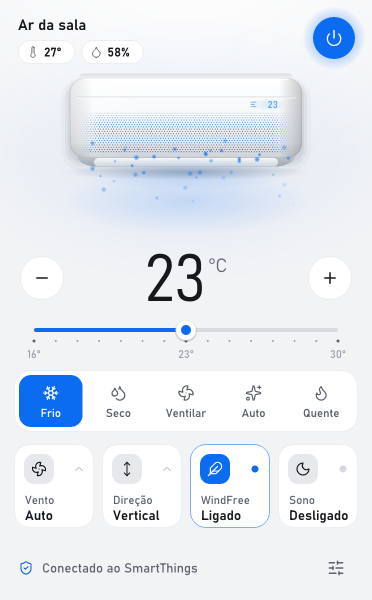
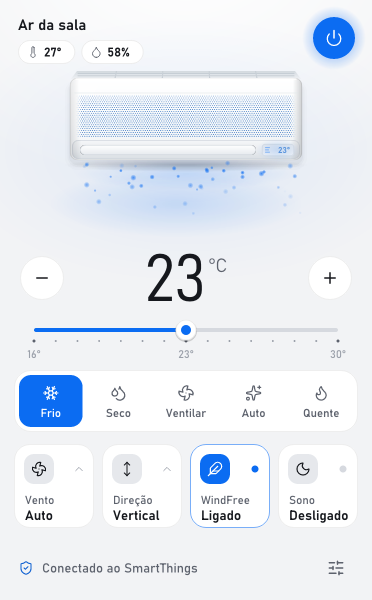
Draw the unit after the WindFree Connect front
Model the wall unit on the real product: the intake grille on the top
face, a smooth upper band, fine perforations across the front, and a
lower lip with the blade over a dark outlet with its vanes and the
display window with the temperature on the right.

The blade now tilts down from the outlet instead of floating below it,
the WindFree air starts under the unit, and the light theme shadow no
longer rings the unit.

Changed region(s): [[0.207, 0.12, 0.828, 0.33]]

diff --git a/src/scene.rs b/src/scene.rs
@@ -9,15 +9,20 @@ pub const HEIGHT: f32 = 150.0;
 /// The scene's top in the drawing, which starts above the unit.
 const TOP: f32 = 12.0;
 
-// The unit: a 2.9 to 1 front, like the real wall units.
-const BODY: (f32, f32, f32, f32) = (44.0, 16.0, 232.0, 80.0);
-const SEAM_Y: f32 = 35.0;
-/// The micro-perforated field on the lower front.
-const FIELD: (f32, f32, f32, f32) = (54.0, 50.0, 212.0, 40.0);
-const HOLE_PITCH: f32 = 2.6;
-const BLADE_TOP: f32 = 96.0;
-const SWAY_ORIGIN: (f32, f32) = (160.0, 103.0);
-const AIR_TOP: f32 = 104.0;
+// The unit follows the WindFree Connect front: a 2.8 to 1 box with the intake grille on
+// top, a smooth upper band, the perforated field and a lower lip with the blade and display.
+const BODY: (f32, f32, f32, f32) = (44.0, 16.0, 232.0, 82.0);
+/// Where the smooth upper band ends and where the lower lip starts.
+const BAND_Y: f32 = 31.0;
+const LIP_Y: f32 = 78.0;
+/// The micro-perforated field that WindFree breathes through.
+const FIELD: (f32, f32, f32, f32) = (50.0, 33.0, 220.0, 43.0);
+const HOLE_PITCH: f32 = 2.2;
+/// The blade covers the outlet on the left of the lip; the display window sits on the right.
+const BLADE: (f32, f32, f32, f32) = (54.0, 83.0, 176.0, 10.0);
+const DISPLAY: (f32, f32, f32, f32) = (236.0, 82.0, 32.0, 12.0);
+const SWAY_ORIGIN: (f32, f32) = (142.0, 99.0);
+const AIR_TOP: f32 = 100.0;
 const AIR_BOTTOM: f32 = 176.0;
 
 /// What the scene shows; the panel eases the numbers between states.
@@ -104,8 +109,8 @@ impl Scene {
             .map(|index| {
                 let position = index as f32 / (count - 1) as f32;
                 let fade = 1.0 - (position - 0.5).abs() * 0.9;
-                let x = 84.0 + position * 152.0;
-                let spread = (x - 160.0) * 0.5;
+                let x = 64.0 + position * 156.0;
+                let spread = (x - 142.0) * 0.5;
                 let bend = random.range(-6.0, 6.0);
                 let mut builder = PathBuilder::new();
                 builder.move_to(x, AIR_TOP);
@@ -124,13 +129,13 @@ impl Scene {
             .collect();
         let motes = (0..48)
             .map(|_| {
-                let x = random.range(62.0, 258.0);
+                let x = random.range(56.0, 264.0);
                 Mote {
                     x,
-                    y: random.range(BODY.1 + 60.0, BODY.1 + 74.0),
+                    y: random.range(BODY.1 + BODY.3 + 1.0, BODY.1 + BODY.3 + 7.0),
                     radius: random.range(0.8, 1.8),
                     dx: (x - 160.0) * 0.12 + random.range(-5.0, 5.0),
-                    dy: random.range(26.0, 66.0),
+                    dy: random.range(20.0, 58.0),
                     seconds: random.range(3.6, 7.2),
                     phase: random.next(),
                 }
@@ -150,90 +155,106 @@ impl Scene {
     pub fn draw_unit(&mut self, canvas: &mut Canvas, look: &Look) {
         let on = look.power;
         let (x, y, width, height) = BODY;
+        let bottom = y + height;
         let glow = look.tint.alpha(if look.light { 0.16 } else { 0.22 } * on);
-        canvas.fill(&ellipse(160.0, 140.0, 128.0, 34.0), &paint(radial(160.0, 140.0, 128.0, 34.0, &[(0.0, glow), (1.0, glow.alpha(0.0))])));
+        canvas.fill(&ellipse(150.0, 142.0, 130.0, 34.0), &paint(radial(150.0, 142.0, 130.0, 34.0, &[(0.0, glow), (1.0, glow.alpha(0.0))])));
 
         // The unit hangs on a wall: a soft shadow behind it and a contact shadow under it.
-        let wall = if look.light { 0.05 } else { 0.12 };
-        for (grow, alpha) in [(9.0, 0.5), (5.0, 0.8), (2.0, 1.0)] {
+        let wall = if look.light { 0.03 } else { 0.13 };
+        let spread: [(f32, f32); 3] = if look.light { [(5.0, 0.4), (2.5, 0.7), (1.0, 1.0)] } else { [(10.0, 0.45), (5.0, 0.75), (2.0, 1.0)] };
+        for (grow, alpha) in spread {
             let shadow = Rgba(0, 0, 0, (255.0 * wall * alpha) as u8);
-            canvas.fill(&rounded(x - grow, y + 3.0 - grow * 0.4, width + grow * 2.0, height + grow * 1.6, 14.0 + grow), &solid(shadow));
+            canvas.fill(&rounded(x - grow, y + 4.0 - grow * 0.4, width + grow * 2.0, height + grow * 1.6, 8.0 + grow), &solid(shadow));
         }
-        let contact = Rgba(0, 0, 0, if look.light { 60 } else { 150 });
-        canvas.fill(&ellipse(160.0, 110.0, 124.0, 8.0), &paint(radial(160.0, 110.0, 124.0, 8.0, &[(0.0, contact), (1.0, contact.alpha(0.0))])));
+        let contact = Rgba(0, 0, 0, if look.light { 55 } else { 140 });
+        canvas.fill(&ellipse(160.0, bottom + 5.0, 122.0, 7.0), &paint(radial(160.0, bottom + 5.0, 122.0, 7.0, &[(0.0, contact), (1.0, contact.alpha(0.0))])));
 
         // Off dims the body a little, like a unit with the room lights low.
         let shade = |color: u32| Rgba::hex(color).mix(Rgba(24, 26, 30, 255), 0.14 * (1.0 - on));
-
-        // The top face, seen from slightly below, peeks over the front.
-        canvas.fill(&rounded(x + 9.0, y - 4.5, width - 18.0, 9.0, 4.5), &paint(linear((0.0, y - 4.5), (0.0, y + 2.0), &[(0.0, shade(0xd9dee4)), (1.0, shade(0xf7f9fb))])));
-
-        // Underside first, so the front panel sits over its edge.
-        let mut under = PathBuilder::new();
-        under.move_to(x + 6.0, 90.0);
-        under.line_to(x + width - 6.0, 90.0);
-        under.cubic_to(x + width - 6.0, 98.0, x + width - 12.0, 103.0, x + width - 24.0, 104.5);
-        under.line_to(x + 24.0, 104.5);
-        under.cubic_to(x + 12.0, 103.0, x + 6.0, 98.0, x + 6.0, 90.0);
-        under.close();
-        if let Some(path) = under.finish() {
-            canvas.fill(&path, &paint(linear((0.0, 90.0), (0.0, 104.5), &[(0.0, shade(0xcdd3da)), (1.0, shade(0x9ea7b2))])));
-        }
-        canvas.fill(&rounded(70.0, 97.0, 180.0, 6.5, 3.25), &paint(linear((0.0, 97.0), (0.0, 103.5), &[(0.0, Rgba::hex(0x07090b)), (1.0, Rgba::hex(0x2a3038))])));
-
-        let body = rounded(x, y, width, height, 15.0);
-        canvas.fill(&body, &paint(linear((0.0, y), (0.0, y + height), &[(0.0, shade(0xffffff)), (0.45, shade(0xf6f8fa)), (1.0, shade(0xe3e8ed))])));
-        // Rounded ends, a gloss across the upper front and the curve into the base.
-        let edge = Rgba(20, 26, 34, 0);
-        canvas.fill(&body, &paint(linear((x, 0.0), (x + width, 0.0), &[(0.0, edge.with_alpha(58)), (0.1, edge), (0.9, edge), (1.0, edge.with_alpha(62))])));
-        let gloss = Rgba(255, 255, 255, 0);
-        canvas.fill(&body, &paint(linear((x, y), (x + width * 0.55, y + height), &[(0.0, gloss.with_alpha(150)), (0.45, gloss.with_alpha(40)), (0.6, gloss)])));
-        canvas.fill(&body, &paint(linear((0.0, y + height - 16.0), (0.0, y + height), &[(0.0, edge), (1.0, edge.with_alpha(30))])));
-        canvas.stroke(&rounded(x + 0.4, y + 0.4, width - 0.8, height - 0.8, 14.6), &solid(Rgba(0, 0, 0, 22)), 0.8);
-
-        // Top cover: a bright lip and the seam above the front panel.
         let thin = |width: f32| Stroke { width, line_cap: LineCap::Round, ..Stroke::default() };
-        if let Some(path) = line((x + 14.0, y + 1.4), (x + width - 14.0, y + 1.4)) {
-            canvas.stroke_with(&path, &solid(Rgba(255, 255, 255, 235)), &thin(1.4), Transform::identity());
-        }
-        if let Some(path) = line((x + 6.0, SEAM_Y), (x + width - 6.0, SEAM_Y)) {
-            canvas.stroke_with(&path, &solid(shade(0xd2d8df)), &thin(0.9), Transform::identity());
-        }
-        if let Some(path) = line((x + 6.0, SEAM_Y + 1.0), (x + width - 6.0, SEAM_Y + 1.0)) {
-            canvas.stroke_with(&path, &solid(Rgba(255, 255, 255, 210)), &thin(0.8), Transform::identity());
-        }
 
-        // The micro-perforated front that WindFree breathes through.
-        let tint_holes = look.tint.mix(Rgba::hex(0x1d4f7a), 0.4);
-        let hole_color = Rgba::hex(0x9aa4ae).mix(tint_holes, 0.85 * look.windfree * on);
-        self.draw_holes(canvas, hole_color);
-
-        // Display on the right of the front, as on the real units, with the WindFree mark when it runs.
-        if let Some(text) = &look.display {
-            let glow = Rgba::hex(0xeaf6ff).mix(look.tint, 0.55).alpha(on);
-            canvas.fill(&ellipse(242.0, 42.5, 18.0, 7.0), &paint(radial(242.0, 42.5, 18.0, 7.0, &[(0.0, glow.alpha(0.22)), (1.0, glow.alpha(0.0))])));
-            canvas.text(text, Style::Semibold, 10.0, 252.0, 46.0, glow, Align::Right);
-            let mark = glow.alpha(look.windfree);
-            for (index, length) in [5.0, 3.5, 5.0].into_iter().enumerate() {
-                let row = 40.2 + index as f32 * 2.2;
-                if let Some(path) = line((225.0, row), (225.0 + length, row)) {
-                    canvas.stroke_with(&path, &solid(mark), &thin(0.9), Transform::identity());
-                }
+        // Top face with the intake grille, seen from slightly above.
+        let mut top = PathBuilder::new();
+        top.move_to(x + 7.0, y - 7.0);
+        top.line_to(x + width - 7.0, y - 7.0);
+        top.line_to(x + width - 1.0, y + 1.0);
+        top.line_to(x + 1.0, y + 1.0);
+        top.close();
+        if let Some(path) = top.finish() {
+            canvas.fill(&path, &paint(linear((0.0, y - 7.0), (0.0, y + 1.0), &[(0.0, shade(0xd3d9df)), (1.0, shade(0xeff2f5))])));
+        }
+        for row in [y - 4.6, y - 2.2] {
+            if let Some(path) = line((x + 8.0, row), (x + width - 8.0, row)) {
+                canvas.stroke_with(&path, &solid(shade(0xb9c1ca)), &thin(0.7), Transform::identity());
+            }
+        }
+        for divider in 1..5 {
+            let along = x + width * divider as f32 / 5.0;
+            if let Some(path) = line((along, y - 6.5), (along + (along - 160.0) * 0.02, y + 0.5)) {
+                canvas.stroke_with(&path, &solid(shade(0xc9d0d7)), &thin(1.1), Transform::identity());
             }
         }
 
-        // The blade swings down for normal airflow and stays shut in WindFree.
-        let open = on * (1.0 - look.windfree);
-        let drop = 6.5 * open;
-        if open > 0.01 {
-            // Its underside shows as it tilts.
-            canvas.fill(&rounded(70.0, BLADE_TOP + 2.0 + drop, 180.0, 3.5 * open + 1.0, 2.0), &solid(shade(0xaab2bc).alpha(open)));
+        // The front: nearly flat, with small rounded corners.
+        let body = rounded(x, y, width, height, 7.0);
+        canvas.fill(&body, &paint(linear((0.0, y), (0.0, bottom), &[(0.0, shade(0xffffff)), (0.55, shade(0xf7f9fa)), (1.0, shade(0xeceff2))])));
+        let edge = Rgba(20, 26, 34, 0);
+        canvas.fill(&body, &paint(linear((x, 0.0), (x + width, 0.0), &[(0.0, edge.with_alpha(46)), (0.04, edge), (0.96, edge), (1.0, edge.with_alpha(50))])));
+        let gloss = Rgba(255, 255, 255, 0);
+        canvas.fill(&body, &paint(linear((x, y), (x + width * 0.5, bottom), &[(0.0, gloss.with_alpha(120)), (0.5, gloss.with_alpha(30)), (0.65, gloss)])));
+        canvas.stroke(&rounded(x + 0.4, y + 0.4, width - 0.8, height - 0.8, 6.6), &solid(Rgba(0, 0, 0, 24)), 0.8);
+        if let Some(path) = line((x + 6.0, y + 1.2), (x + width - 6.0, y + 1.2)) {
+            canvas.stroke_with(&path, &solid(Rgba(255, 255, 255, 240)), &thin(1.2), Transform::identity());
         }
-        let blade = Transform::from_translate(160.0, BLADE_TOP)
-            .pre_translate(0.0, drop)
-            .pre_scale(1.0, 1.0 - 0.58 * open)
-            .pre_translate(-160.0, -BLADE_TOP);
-        canvas.fill_at(&rounded(68.0, BLADE_TOP, 184.0, 8.5, 4.25), &paint(linear((0.0, BLADE_TOP), (0.0, BLADE_TOP + 8.5), &[(0.0, shade(0xf4f6f8)), (1.0, shade(0xd0d6dd))])), blade);
+
+        // The perforated field, which takes the mode color while WindFree runs.
+        let tint_holes = look.tint.mix(Rgba::hex(0x1d4f7a), 0.4);
+        let hole_color = Rgba::hex(0xa3acb6).mix(tint_holes, 0.85 * look.windfree * on);
+        self.draw_holes(canvas, hole_color);
+        if let Some(path) = line((x + 5.0, BAND_Y), (x + width - 5.0, BAND_Y)) {
+            canvas.stroke_with(&path, &solid(shade(0xe3e7eb)), &thin(0.6), Transform::identity());
+        }
+
+        // The lower lip curves back toward the wall.
+        let lip = rounded(x + 2.0, LIP_Y, width - 4.0, bottom - LIP_Y - 1.0, 6.0);
+        canvas.fill(&lip, &paint(linear((0.0, LIP_Y), (0.0, bottom), &[(0.0, shade(0xf4f6f8)), (0.5, shade(0xeaedf0)), (1.0, shade(0xd8dde2))])));
+        canvas.stroke(&rounded(x + 2.5, LIP_Y + 0.5, width - 5.0, bottom - LIP_Y - 2.0, 5.5), &solid(shade(0xd0d6dc)), 0.7);
+        canvas.fill(&lip, &paint(linear((x, 0.0), (x + width, 0.0), &[(0.0, edge.with_alpha(40)), (0.05, edge), (0.95, edge), (1.0, edge.with_alpha(44))])));
+
+        // Behind the blade: the dark outlet with the side-to-side vanes.
+        let (bx, by, bw, bh) = BLADE;
+        canvas.fill(&rounded(bx, by, bw, bh, bh / 2.0), &paint(linear((0.0, by), (0.0, by + bh), &[(0.0, Rgba::hex(0x0a0c0f)), (1.0, Rgba::hex(0x2c323a))])));
+        for vane in 1..16 {
+            let along = bx + bw * vane as f32 / 16.0;
+            if let Some(path) = line((along, by + 2.0), (along, by + bh - 2.0)) {
+                canvas.stroke_with(&path, &solid(Rgba::hex(0x3b424b)), &thin(0.9), Transform::identity());
+            }
+        }
+
+        // The blade tilts down from the bottom of the outlet for normal airflow and stays shut in WindFree.
+        let open = on * (1.0 - look.windfree);
+        let hinge = by + bh;
+        let blade = Transform::from_translate(0.0, hinge).pre_concat(Transform::from_row(1.0, 0.0, 0.0, 1.0 - 0.45 * open, 0.0, 0.0)).pre_translate(0.0, -hinge).pre_concat(Transform::from_translate(0.0, (bh + 1.0) * open));
+        canvas.fill_at(&rounded(bx, by, bw, bh, bh / 2.0), &paint(linear((0.0, by), (0.0, by + bh), &[(0.0, shade(0xffffff)), (1.0, shade(0xe6eaee))])), blade);
+        canvas.stroke_with(&rounded(bx + 0.4, by + 0.4, bw - 0.8, bh - 0.8, bh / 2.0 - 0.4), &solid(shade(0xccd3da)), &thin(0.6), blade);
+
+        // The display window on the right of the lip; the digits light up when the display is on.
+        let (dx, dy, dw, dh) = DISPLAY;
+        canvas.fill(&rounded(dx, dy, dw, dh, 3.0), &paint(linear((0.0, dy), (0.0, dy + dh), &[(0.0, shade(0xe4e8ec)), (1.0, shade(0xf0f2f5))])));
+        canvas.stroke(&rounded(dx + 0.3, dy + 0.3, dw - 0.6, dh - 0.6, 2.7), &solid(shade(0xcfd5db)), 0.6);
+        if let Some(text) = &look.display {
+            let glow = Rgba::hex(0xeaf6ff).mix(look.tint, 0.6).alpha(on);
+            canvas.fill(&ellipse(dx + dw / 2.0, dy + dh / 2.0, dw * 0.7, dh), &paint(radial(dx + dw / 2.0, dy + dh / 2.0, dw * 0.7, dh, &[(0.0, glow.alpha(0.28)), (1.0, glow.alpha(0.0))])));
+            canvas.text(&format!("{text}°"), Style::Semibold, 8.5, dx + dw - 4.0, dy + dh - 3.0, glow.mix(Rgba::hex(0x2a5d8a), 0.25), Align::Right);
+            // The WindFree mark beside the digits while it runs.
+            let mark = glow.alpha(look.windfree);
+            for (index, length) in [4.0, 3.0, 4.0].into_iter().enumerate() {
+                let row = dy + 3.6 + index as f32 * 2.3;
+                if let Some(path) = line((dx + 3.5, row), (dx + 3.5 + length, row)) {
+                    canvas.stroke_with(&path, &solid(mark), &thin(0.8), Transform::identity());
+                }
+            }
+        }
     }
 
     fn draw_holes(&mut self, canvas: &mut Canvas, color: Rgba) {
@@ -272,10 +293,10 @@ impl Scene {
         };
 
         let mut sheet = PathBuilder::new();
-        sheet.move_to(84.0, AIR_TOP - 1.0);
-        sheet.line_to(236.0, AIR_TOP - 1.0);
-        sheet.line_to(278.0, AIR_BOTTOM);
-        sheet.line_to(42.0, AIR_BOTTOM);
+        sheet.move_to(62.0, AIR_TOP - 1.0);
+        sheet.line_to(222.0, AIR_TOP - 1.0);
+        sheet.line_to(262.0, AIR_BOTTOM);
+        sheet.line_to(22.0, AIR_BOTTOM);
         sheet.close();
         if let Some(sheet) = sheet.finish() {
             canvas.fill_at(&sheet, &fall(0.12), sway);
@@ -311,7 +332,7 @@ impl Scene {
     }
 }
 
-/// The perforation grid, fading at the sides and toward the seam, rendered once per scale and color.
+/// The perforation grid: fine, even dots across the front, rendered once per scale and color.
 fn render_holes(scale: f32, color: Rgba) -> Option<Pixmap> {
     let (_, _, width, height) = FIELD;
     let mut pixmap = Pixmap::new((width * scale).ceil() as u32 + 1, (height * scale).ceil() as u32 + 1)?;
@@ -323,8 +344,8 @@ fn render_holes(scale: f32, color: Rgba) -> Option<Pixmap> {
         let mut x = HOLE_PITCH / 2.0 + if row % 2 == 1 { HOLE_PITCH / 2.0 } else { 0.0 };
         while x < width {
             let side = (x / width).min(1.0 - x / width);
-            let fade = (side / 0.09).min(1.0) * (0.25 + 0.75 * (y / (height * 0.35)).min(1.0));
-            canvas.fill(&ellipse(x, y, 0.55, 0.55), &solid(color.alpha(fade)));
+            let fade = (side / 0.03).min(1.0) * (0.55 + 0.45 * (y / (height * 0.25)).min(1.0));
+            canvas.fill(&ellipse(x, y, 0.48, 0.48), &solid(color.alpha(fade)));
             x += HOLE_PITCH;
         }
         y += HOLE_PITCH * 0.87;

diff --git a/src/panel.rs b/src/panel.rs
@@ -1519,6 +1519,8 @@ mod tests {
             }
         }
         render("vento", &cases[1].1, false, 1.5, &|_| {});
+        render("detalhe", &cases[1].1, false, 3.0, &|_| {});
+        render("detalhe-windfree", &cases[0].1, true, 3.0, &|_| {});
         render("menu", &demo_view(), false, 1.0, &|panel| {
             let (x, y) = center(tile_rect(1));
             click(panel, x, y);
